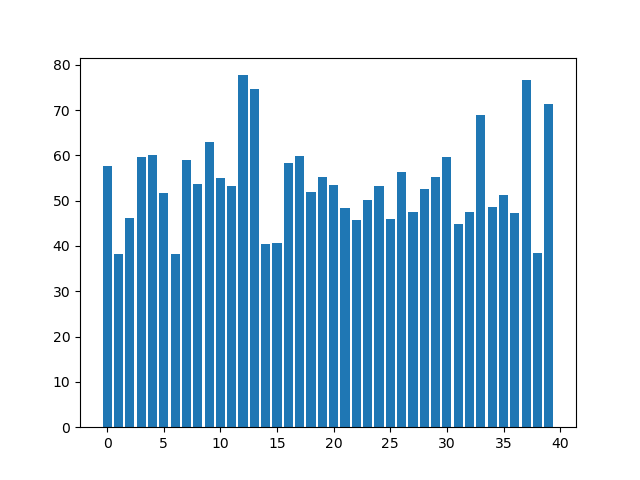
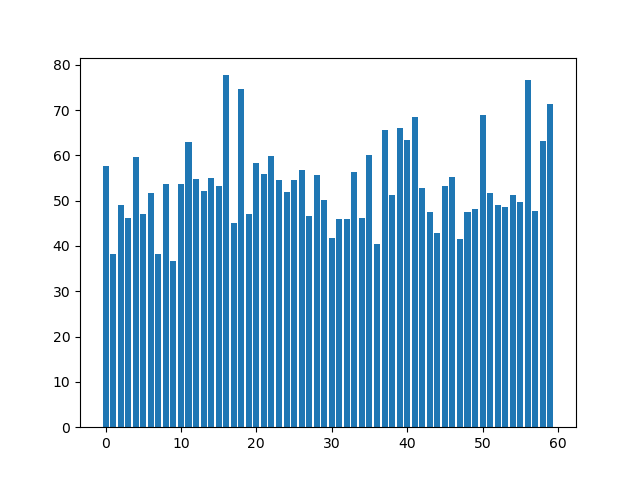
保存正确的数据

Changed region(s): [[0.1562, 0.1562, 0.875, 0.9375], [0.8438, 0.9062, 0.9062, 0.9375]]

diff --git a/cluster.py b/cluster.py
@@ -20,7 +20,7 @@ def cluster(infered_vectors_list, n_clusters):
 
 labels, centers = cluster(svd.U, 2)
 print(labels)
-save('centers.pkl', svd.denseUserVecs)
+save('centers.pkl', centers)
 
 # 将labels转换到对应专家
 userList = list(svd.sparseUserVecs.data.keys())

diff --git a/svd.py b/svd.py
@@ -119,11 +119,4 @@ for index, row in df.iterrows():
         dfData.append(rowData)
 
 U, S, V = np.linalg.svd(sparseUserVecs.toMat())
-print('S')
-print(S)
-print('V')
-print(V.shape)
-print('U')
-print(U[0])
-
 denseUserVecs = sparseUserVecs.matToNewUserVecs(U)

diff --git a/readme.md b/readme.md
@@ -51,16 +51,16 @@ SVD稠密向量的聚类结果
 ----------
 ### 各专家所属类别
 ``` python
-{'P090': 1, 'P511': 1, 'P446': 0, 'P339': 1, 'P256': 0, 'P486': 1, 'P336': 0, 'P200': 1, 'P477': 0, 'P370': 1, 'P322': 1, 'P120': 0, 'P571': 0, 'P573': 0, 'P732': 1, 'P270': 1, 'P126': 0, 'P127': 0, 'P758': 1, 'P704': 0, 'P344': 0, 'P069': 0, 'P482': 1, 'P372': 1, 'P235': 1, 'P658': 0, 'P466': 0, 'P132': 1, 'P118': 0, 'P255': 0, 'P555': 1, 'P070': 0, 'P497': 0, 'P494': 1, 'P454': 1, 'P350': 0, 'P240': 0, 'P464': 0, 'P356': 0, 'P236': 1, 'P223': 0, 'P022': 1, 'P212': 0, 'P459': 0, 'P402': 1, 'P756': 1, 'P082': 0, 'P615': 0, 'P170': 0, 'P297': 0, 'P150': 0, 'P418': 1, 'P376': 1, 'P391': 1, 'P233': 1, 'P601': 0, 'P672': 1, 'P453': 0, 'P287': 0, 'P056': 1, 'P484': 0, 'P526': 0, 'P230': 0, 'P676': 0, 'P580': 0, 'P005': 0, 'P163': 0, 'P625': 0, 'P485': 0, 'P449': 0, 'P267': 0, 'P592': 1, 'P143': 0, 'P138': 0, 'P462': 0, 'P294': 1, 'P587': 1, 'P225': 1, 'P576': 0, 'P438': 0, 'P635': 0, 'P767': 1, 'P406': 1, 'P654': 0, 'P513': 1, 'P434': 0, 'P266': 0, 'P125': 0, 'P386': 1, 'P229': 1, 'P549': 1, 'P443': 0, 'P282': 1, 'P506': 1, 'P334': 0, 'P632': 0, 'P753': 1}
+{'P090': 1, 'P511': 1, 'P446': 1, 'P339': 1, 'P256': 0, 'P486': 1, 'P336': 1, 'P200': 0, 'P477': 0, 'P370': 1, 'P322': 1, 'P120': 0, 'P571': 1, 'P573': 1, 'P732': 0, 'P270': 1, 'P126': 0, 'P127': 0, 'P758': 1, 'P704': 1, 'P344': 0, 'P069': 1, 'P482': 1, 'P372': 1, 'P235': 1, 'P658': 1, 'P466': 0, 'P132': 1, 'P118': 0, 'P255': 0, 'P555': 0, 'P070': 0, 'P497': 1, 'P494': 0, 'P454': 1, 'P350': 0, 'P240': 1, 'P464': 0, 'P356': 0, 'P236': 1, 'P223': 1, 'P022': 1, 'P212': 1, 'P459': 0, 'P402': 0, 'P756': 0, 'P082': 1, 'P615': 1, 'P170': 0, 'P297': 1, 'P150': 0, 'P418': 0, 'P376': 0, 'P391': 1, 'P233': 0, 'P601': 1, 'P672': 1, 'P453': 0, 'P287': 1, 'P056': 1, 'P484': 1, 'P526': 1, 'P230': 1, 'P676': 1, 'P580': 0, 'P005': 1, 'P163': 0, 'P625': 1, 'P485': 1, 'P449': 1, 'P267': 1, 'P592': 1, 'P143': 1, 'P138': 1, 'P462': 0, 'P294': 0, 'P587': 1, 'P225': 0, 'P576': 0, 'P438': 1, 'P635': 0, 'P767': 0, 'P406': 1, 'P654': 1, 'P513': 1, 'P434': 0, 'P266': 1, 'P125': 1, 'P386': 1, 'P229': 1, 'P549': 0, 'P443': 1, 'P282': 1, 'P506': 0, 'P334': 1, 'P632': 1, 'P753': 1}
 ```
 ### 两类别专家打出的平均分的描述性统计
 * 类别1条形图
 ![](Q2SVD第一类专家平均分.png)
 * 类别2条形图
 ![](Q2SVD第二类专家平均分.png)
-* 类别1：最大值77.69607843137256 最小值38.319526627218934 平均值53.94201095601261
-* 类别2：最大值68.49019607843137 最小值34.54368932038835 平均值51.27405524393622
-* t检验得p值为0.1380489346409096（两类平均分数据有0.13的概率是从同一个分布中抽出的，即有0.87的概率是在不同分布中抽出的（有差异））
+* 类别1：最大值77.69607843137256 最小值36.75 平均值53.60923639814696
+* 类别2：最大值65.13592233009709 最小值34.54368932038835 平均值50.37155143935275
+* t检验得p值为0.07499205175196061（两类平均分数据有0.07的概率是从同一个分布中抽出的，即有0.93的概率是在不同分布中抽出的（有较大差异））
 * t检验的结果需要解释一下：一般来说，p值小于0.05才是有显著差异，但我们分类是针对高维向量的，然后现在为了给出一个人类可读的初步检验结果，才用两类别的专家打出分的平均值作为检验指标。平均分是一个很低维的指标，高维向量的很多信息换成平均分就被压缩没了，因此平均分的t检验结果不能完全衡量高维向量的差异大小（实际应该比这个更小），所以平均分的p值有0.13已经足够说明问题了
 
 ### 一些结论
